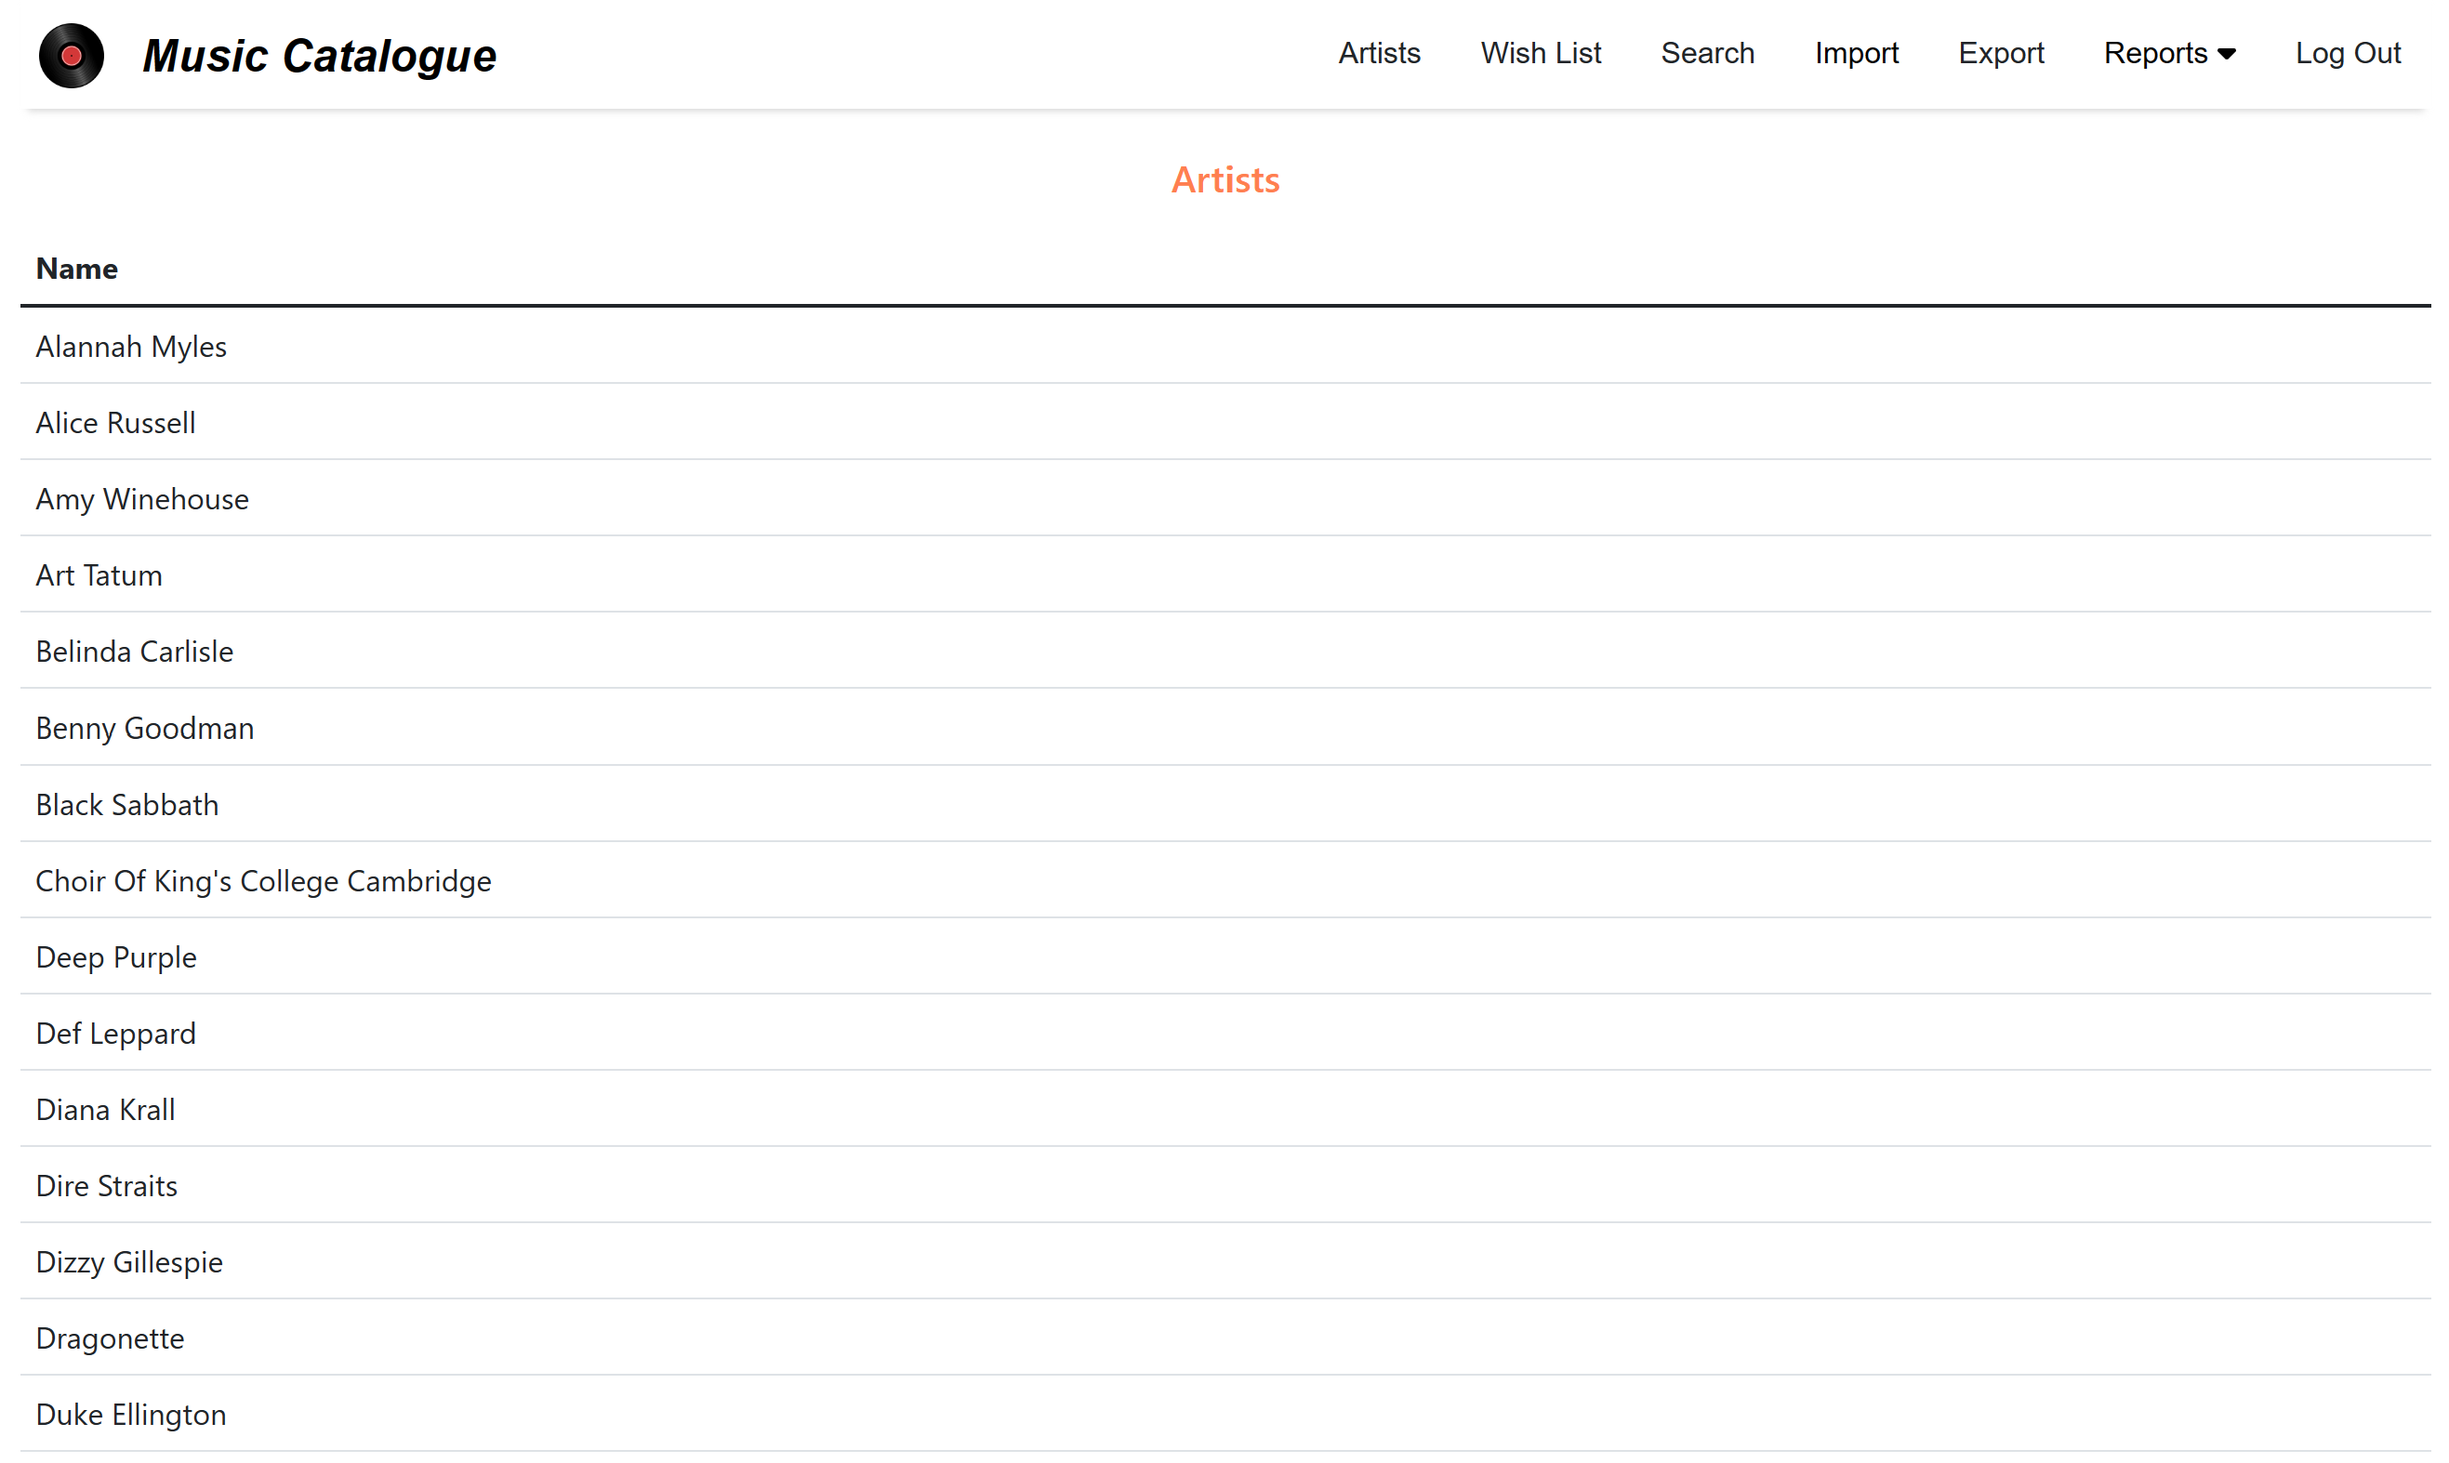
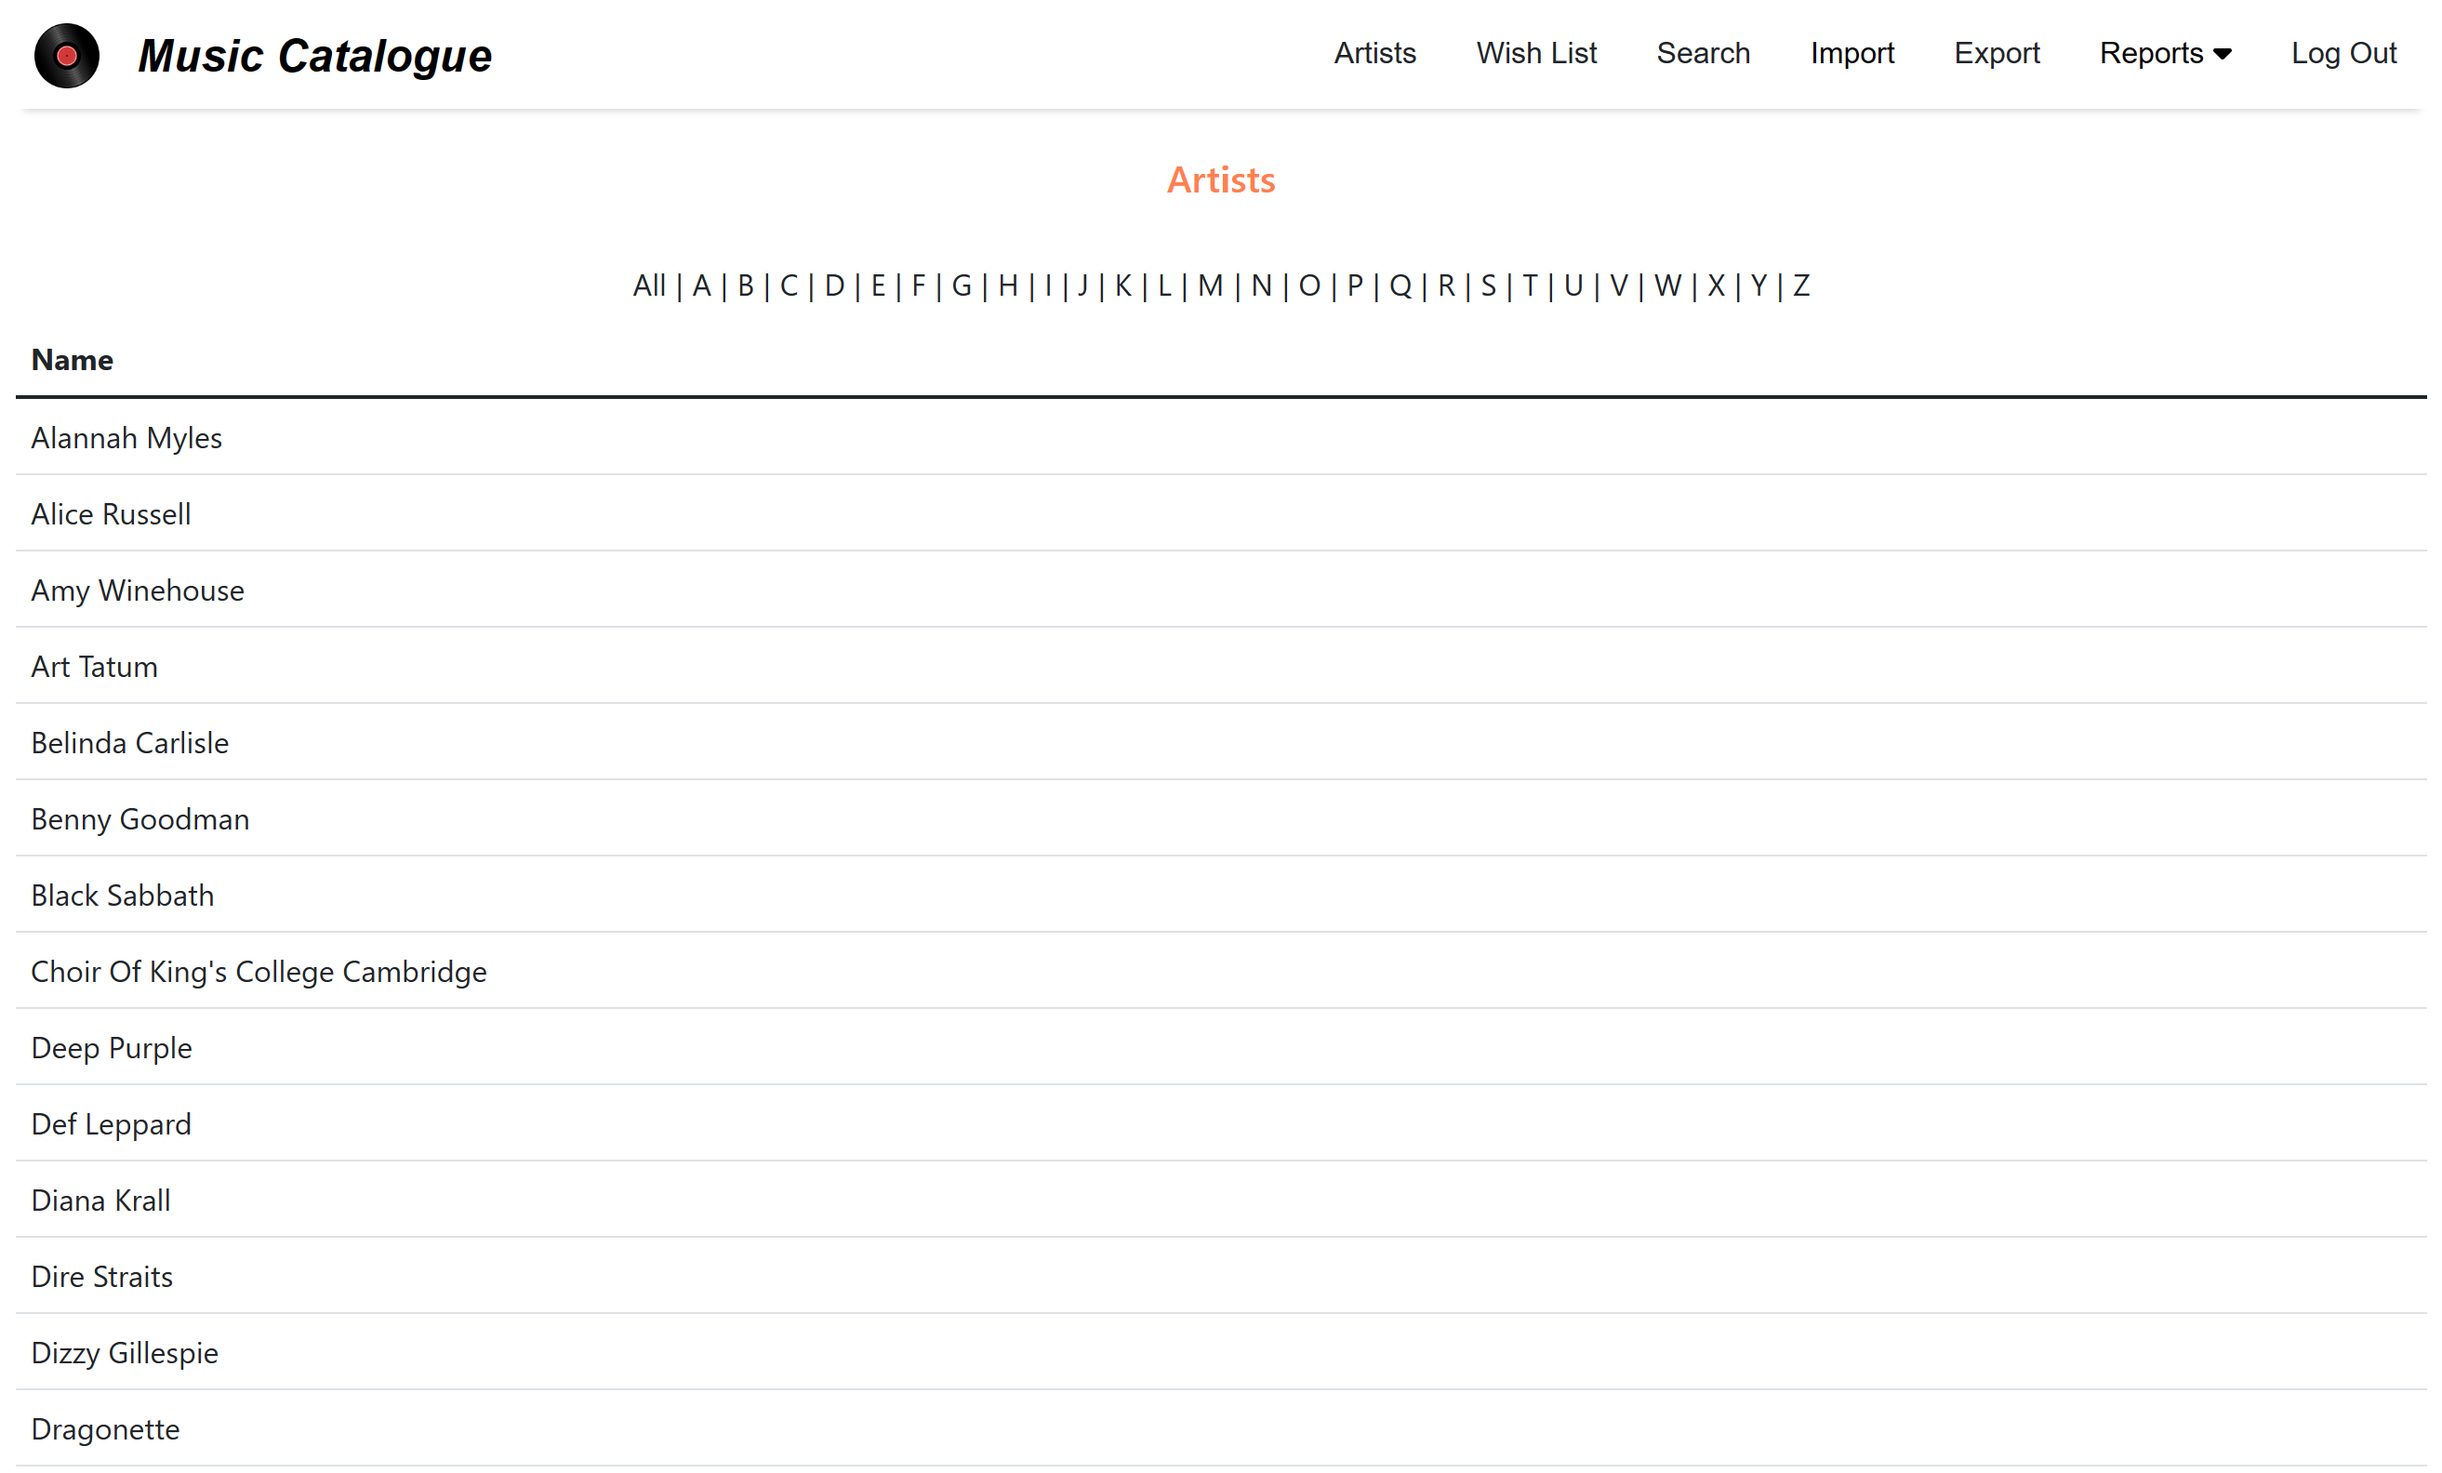
Added the artist filter to the artist and wish list pages

diff --git a/src/music-catalogue-ui/components/artistList.js b/src/music-catalogue-ui/components/artistList.js
@@ -1,5 +1,7 @@
+import styles from "./artistList.module.css";
 import useArtists from "@/hooks/useArtists";
 import ArtistRow from "./artistRow";
+import ArtistFilterBar from "./artistFilterBar";
 
 /**
  * Component to render a table listing all the artists in the catalogue
@@ -8,8 +10,13 @@ import ArtistRow from "./artistRow";
  * @param {*} logout
  * @returns
  */
-const ArtistList = ({ isWishList, navigate, logout }) => {
-  const { artists, setArtists } = useArtists(isWishList, logout);
+const ArtistList = ({ filter, isWishList, navigate, logout }) => {
+  const { artists, setArtists } = useArtists(filter, isWishList, logout);
+
+  // Callback to pass to child components to set the artist list
+  const setArtistsCallback = (artists) => {
+    setArtists(artists);
+  };
 
   // Set the page title to reflect whether we're viewing the wish list
   const title = isWishList ? "Wish List Artists" : "Artists";
@@ -18,6 +25,15 @@ const ArtistList = ({ isWishList, navigate, logout }) => {
     <>
       <div className="row mb-2 pageTitle">
         <h5 className="themeFontColor text-center">{title}</h5>
+      </div>
+      <div className="row mb-2 pageTitle">
+        <div align="center">
+          <ArtistFilterBar
+            isWishList={isWishList}
+            logout={logout}
+            setArtists={setArtistsCallback}
+          />
+        </div>
       </div>
       <table className="table table-hover">
         <thead>

diff --git a/src/music-catalogue-ui/hooks/useArtists.js b/src/music-catalogue-ui/hooks/useArtists.js
@@ -1,5 +1,5 @@
 import { useState, useEffect } from "react";
-import { apiFetchAllArtists } from "@/helpers/apiArtists";
+import { apiFetchArtists } from "@/helpers/apiArtists";
 
 /**
  * Hook that uses the API helpers to retrieve a list of artists from the
@@ -8,7 +8,7 @@ import { apiFetchAllArtists } from "@/helpers/apiArtists";
  * @param {*} logout
  * @returns
  */
-const useArtists = (isWishlist, logout) => {
+const useArtists = (filter, isWishlist, logout) => {
   // Current list of artists and the method to change it
   const [artists, setArtists] = useState([]);
 
@@ -17,13 +17,13 @@ const useArtists = (isWishlist, logout) => {
       try {
         // Get a list of artists via the service, store it in state and clear the
         // loading status
-        var fetchedArtists = await apiFetchAllArtists(isWishlist, logout);
+        var fetchedArtists = await apiFetchArtists(filter, isWishlist, logout);
         setArtists(fetchedArtists);
       } catch {}
     };
 
     fetchArtists();
-  }, [isWishlist, logout]);
+  }, [filter, isWishlist, logout]);
 
   return { artists, setArtists };
 };

diff --git a/src/music-catalogue-ui/components/artistFilter.js b/src/music-catalogue-ui/components/artistFilter.js
@@ -1,0 +1,32 @@
+import { useCallback } from "react";
+import styles from "./artistFilter.module.css";
+import { apiFetchArtists } from "../helpers/apiArtists";
+
+const ArtistFilter = ({
+  label,
+  separator,
+  filter,
+  isWishList,
+  setArtists,
+  logout,
+}) => {
+  /* Callback to filter the artist list by this filter */
+  const filterArtists = useCallback(async () => {
+    try {
+      // Get a list of artists matching the specified criteria
+      var fetchedArtists = await apiFetchArtists(filter, isWishList, logout);
+      setArtists(fetchedArtists);
+    } catch {}
+  }, [filter, isWishList, logout, setArtists]);
+
+  return (
+    <>
+      {separator != "" ? <span>{separator}</span> : <></>}
+      <span className={styles.artistFilterLabel} onClick={filterArtists}>
+        {label}
+      </span>
+    </>
+  );
+};
+
+export default ArtistFilter;

diff --git a/src/music-catalogue-ui/components/artistFilterBar.js b/src/music-catalogue-ui/components/artistFilterBar.js
@@ -1,0 +1,33 @@
+import ArtistFilter from "./artistFilter";
+
+const ArtistFilterBar = ({ isWishList, logout, setArtists }) => {
+  // Construct the filtering , starting with "All"
+  let options = [{ id: 0, label: "All", filter: "*", separator: "" }];
+
+  // Add the alphabet filters
+  const alphabet = "ABCDEFGHIJKLMNOPQRSTUVWXYZ";
+  for (let i = 0; i < alphabet.length; i++) {
+    options = [
+      ...options,
+      { id: i + 1, label: alphabet[i], filter: alphabet[i], separator: "|" },
+    ];
+  }
+
+  return (
+    <>
+      {options.map((o) => (
+        <ArtistFilter
+          key={o.id}
+          label={o.label}
+          separator={o.separator}
+          filter={o.filter}
+          isWishList={isWishList}
+          setArtists={setArtists}
+          logout={logout}
+        />
+      ))}
+    </>
+  );
+};
+
+export default ArtistFilterBar;

diff --git a/src/music-catalogue-ui/helpers/apiArtists.js b/src/music-catalogue-ui/helpers/apiArtists.js
@@ -4,13 +4,14 @@ import { apiGetHeaders } from "./apiHeaders";
 
 /**
  * Fetch a list of all artists from the Music Catalogue REST API
+ * @param {*} filter
  * @param {*} isWishList
  * @param {*} logout
  * @returns
  */
-const apiFetchAllArtists = async (isWishList, logout) => {
+const apiFetchArtists = async (filter, isWishList, logout) => {
   // Call the API to get a list of all artists
-  const url = `${config.api.baseUrl}/artists/${isWishList}`;
+  const url = `${config.api.baseUrl}/artists/${filter}/${isWishList}`;
   const response = await fetch(url, {
     method: "GET",
     headers: apiGetHeaders(),
@@ -39,4 +40,4 @@ const apiFetchArtistById = async (artistId, logout) => {
   return artist;
 };
 
-export { apiFetchAllArtists, apiFetchArtistById };
+export { apiFetchArtists, apiFetchArtistById };

diff --git a/src/music-catalogue-ui/components/componentPicker.js b/src/music-catalogue-ui/components/componentPicker.js
@@ -22,6 +22,7 @@ const ComponentPicker = ({ context, navigate, logout }) => {
     case pages.artists:
       return (
         <ArtistList
+          filter={"A"}
           isWishList={context.isWishList}
           navigate={navigate}
           logout={logout}

diff --git a/src/music-catalogue-ui/components/artistFilter.module.css b/src/music-catalogue-ui/components/artistFilter.module.css
@@ -1,0 +1,9 @@
+.artistFilterLabel {
+  margin-left: 5px;
+  margin-right: 5px;
+}
+
+.artistFilterLabel:hover {
+  background-color: lightgray;
+  cursor: pointer;
+}

diff --git a/src/music-catalogue-ui/components/artistList.module.css b/src/music-catalogue-ui/components/artistList.module.css
@@ -1,0 +1,3 @@
+.artistListFilterBar {
+  align-self: center;
+}

diff --git a/README.md b/README.md
@@ -163,6 +163,9 @@ MusicCatalogue.LookupTool --lookup "John Coltrane" "Blue Train" catalogue
 
 <img src="diagrams/artist-list.png" alt="Artist List" width="600">
 
+- When first opened, the page shows artists with names beginning with "A"
+- Clicking on a letter in the alphabet at the top of the page filters the view to show artists with names beginning with that letter
+- Clicking on "All" shows all artists
 - As the mouse pointer is moved up and down the table, the current row is highlighted
 - Clicking on a row opens the album list for the artist shown in that row:
 
@@ -185,7 +188,8 @@ MusicCatalogue.LookupTool --lookup "John Coltrane" "Blue Train" catalogue
 
 - To view the wish list, click on the "Wish List" menu item
 - A page identical in layout to the "Artists" page is displayed, but with a title indicating that it is the wish list
-- The page operates in an identical manner to the "Artists" page and clicking on a row in the table navigates to the wish list for that artist:
+- The page operates in an identical manner to the "Artists" page, using the same alphabet filter
+- Clicking on a row in the table navigates to the wish list for that artist:
 
 <img src="diagrams/wish-list-album-list.png" alt="Wish List Album List" width="600">
 
